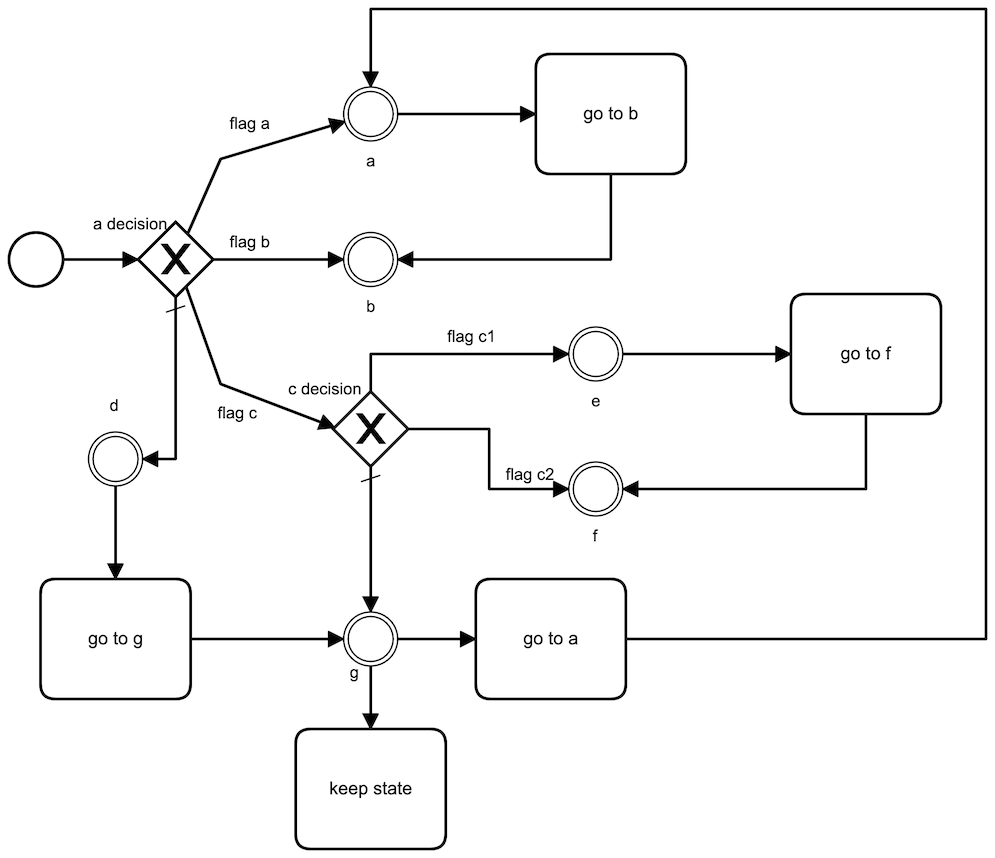
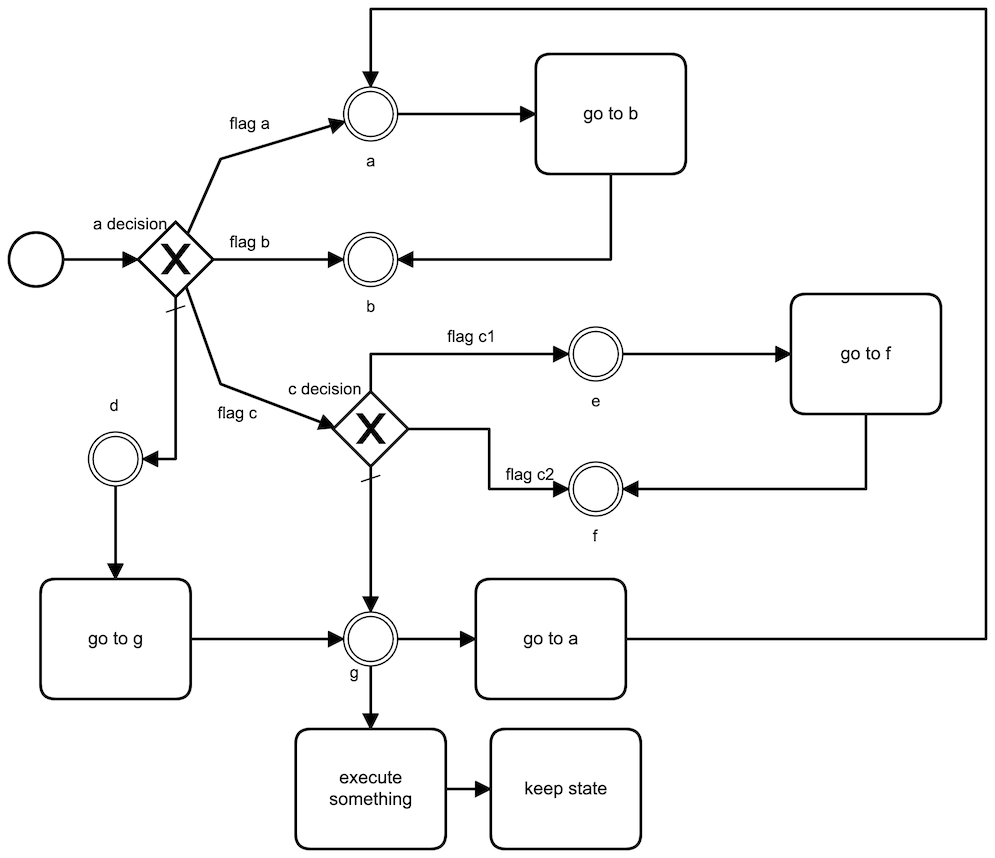
Fix diagram and demo example

Changed region(s): [[0.4673, 0.8485, 0.6543, 1.0], [0.3116, 0.8788, 0.4362, 0.9394]]

diff --git a/README.md b/README.md
@@ -31,12 +31,13 @@ From the  following BMPN diagram:
              b
              (c-decision . ((flag-c1 . e) (flag-c2 . f) g))
              d
+             e
              f
              g)
-   :actions '(go-to-b go-to-a go-to-f go-to-g keep-state)
+   :actions '(go-to-b go-to-a go-to-f go-to-g execute-something)
    :transitions '((d go-to-g g)
                   (g go-to-a a)
-                  (g keep-state nil)
+                  (g execute-something nil)
                   (a go-to-b b)
                   (e go-to-f f))))
 
@@ -91,7 +92,7 @@ class StateMachine {
     case goToA
     case goToF
     case goToG
-    case keepState
+    case executeSomething
   }
   
   /**
@@ -121,7 +122,7 @@ class StateMachine {
   private var actionGoToA: ActionExecutor!
   private var actionGoToF: ActionExecutor!
   private var actionGoToG: ActionExecutor!
-  private var actionKeepState: ActionExecutor!
+  private var actionExecuteSomething: ActionExecutor!
   
   /**
    * Decisions
@@ -138,7 +139,7 @@ class StateMachine {
   private var transitions: [Transition] = [
     (.d, .goToG, .g),
     (.g, .goToA, .a),
-    (.g, .keepState, .g),
+    (.g, .executeSomething, .g),
     (.a, .goToB, .b),
     (.e, .goToF, .f),
   ]
@@ -260,18 +261,18 @@ class StateMachine {
   }
   
   /**
-   * Set action .keepState
+   * Set action .executeSomething
    */
-  func setActionKeepState(_ action: @escaping ActionExecutor) {
-    actionKeepState = action
+  func setActionExecuteSomething(_ action: @escaping ActionExecutor) {
+    actionExecuteSomething = action
   }
   
   /**
-   * Execute action .keepState from current state
+   * Execute action .executeSomething from current state
    */
-  func doActionKeepState(_ completion: @escaping Completion) {
-    log("doActionKeepState")
-    doAction(.keepState, completion)
+  func doActionExecuteSomething(_ completion: @escaping Completion) {
+    log("doActionExecuteSomething")
+    doAction(.executeSomething, completion)
   }
   
   /**
@@ -308,8 +309,8 @@ class StateMachine {
     if actionGoToG == nil {
       fatalError("Machine not started because action 'goToG' is missing")
     }
-    if actionKeepState == nil {
-      fatalError("Machine not started because action 'keepState' is missing")
+    if actionExecuteSomething == nil {
+      fatalError("Machine not started because action 'executeSomething' is missing")
     }
     
     // start the machine
@@ -338,8 +339,8 @@ class StateMachine {
       actionExec = actionGoToF
       case .goToG:
       actionExec = actionGoToG
-      case .keepState:
-      actionExec = actionKeepState
+      case .executeSomething:
+      actionExec = actionExecuteSomething
     }
     
     do {
@@ -446,7 +447,7 @@ sm.setActionGoToB { [weak self] in self?.goToBDemoEx($0) }
 sm.setActionGoToA { [weak self] in self?.goToADemoEx($0) }
 sm.setActionGoToF { [weak self] in self?.goToFDemoEx($0) }
 sm.setActionGoToG { [weak self] in self?.goToGDemoEx($0) }
-sm.setActionKeepState { [weak self] in self?.keepStateDemoEx($0) }
+sm.setActionExecuteSomething { [weak self] in self?.executeSomethingDemoEx($0) }
 sm.start()
 ```
 
